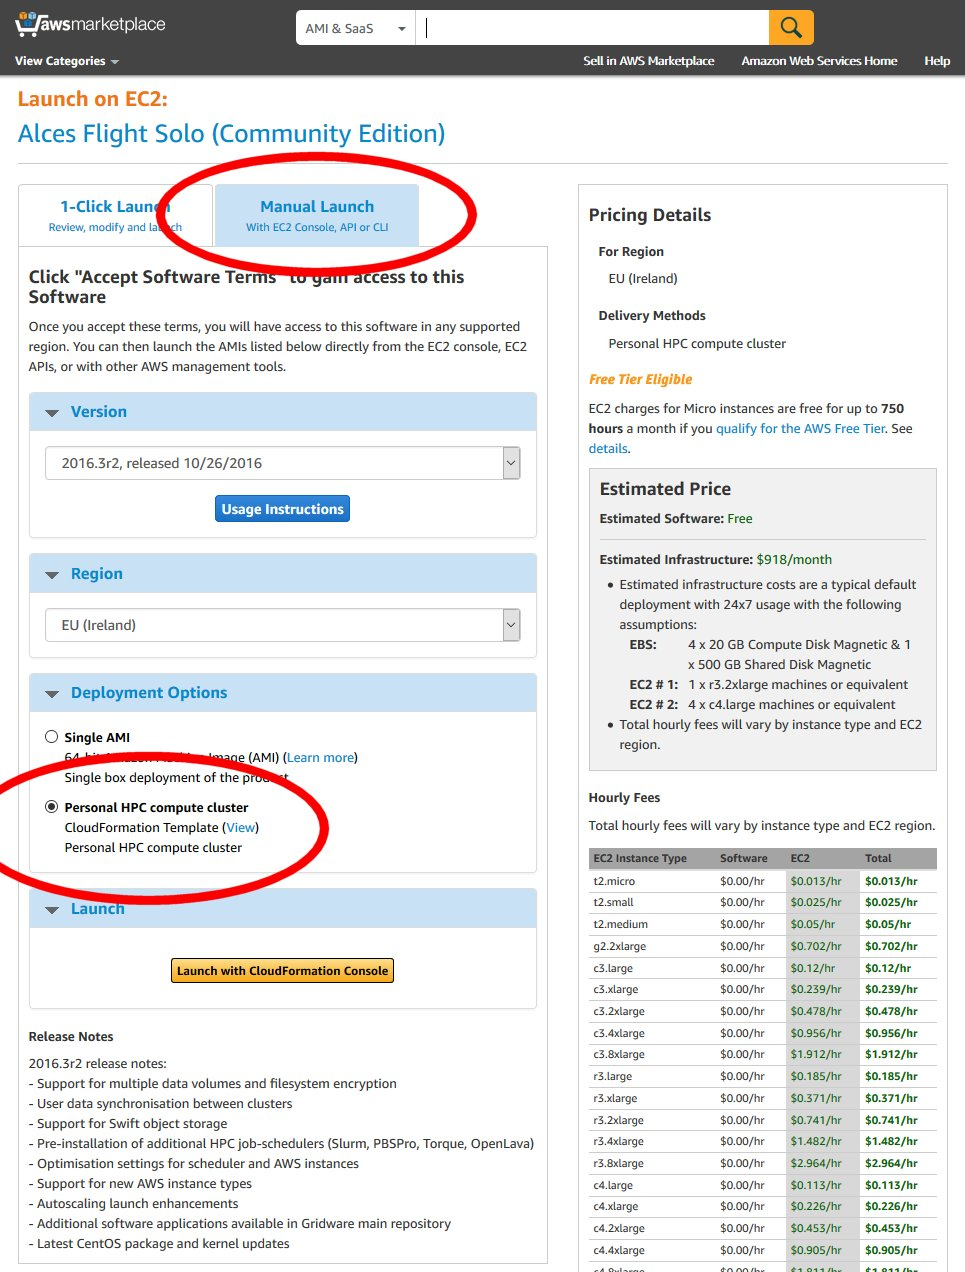
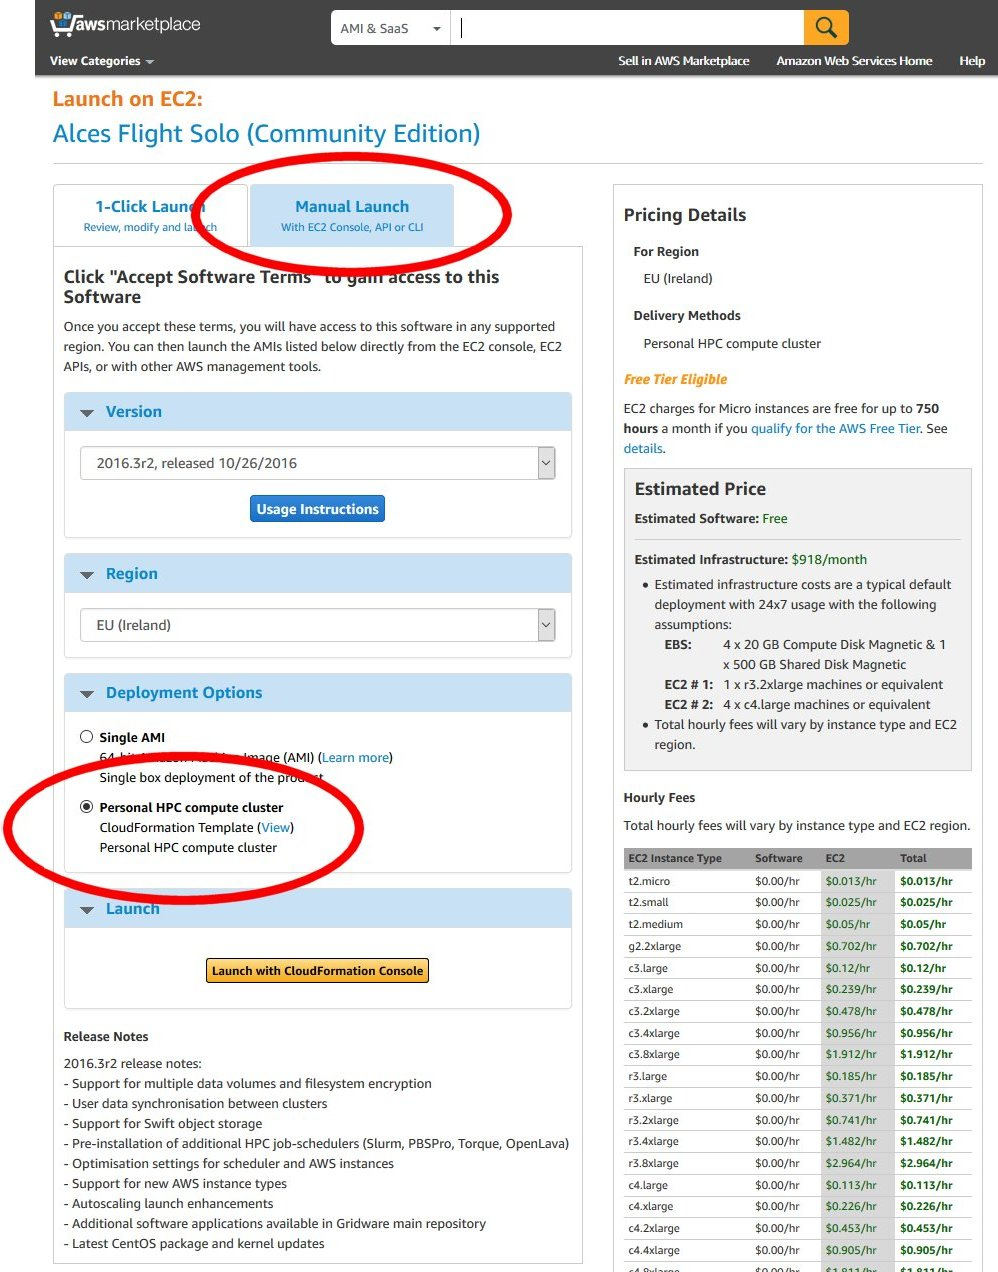
Added NAMD tutorial; fixed JPG highlight

diff --git a/docs/source/getting-started/environment-usage/namd_on_flight.rst b/docs/source/getting-started/environment-usage/namd_on_flight.rst
@@ -1,0 +1,96 @@
+.. _using-namd-with-alces-flight-compute:
+
+====================================
+Using NAMD with Alces Flight Compute
+====================================
+
+NAMD is a parallel molecular dynamics code designed for high-performance simulation of large biomolecular systems [1]_. The following page details how to install the NAMD application to your Alces Flight Compute environment, as well as how to get started using the NAMD application.
+
+Prerequisites
+-------------
+
+-  Alces Flight Compute environment deployed [2]_
+-  A VNC graphical desktop client
+
+Installation
+------------
+
+From your Alces Flight Compute environment, you can begin by installing the NAMD Gridware package. Use the command below to install NAMD:
+
+.. code:: bash
+
+    alces gridware install apps/namd --variant all --yes
+
+Using NAMD
+----------
+
+Download and unpack the following tutorial files to your home directory: 
+
+  -   https://s3-eu-west-1.amazonaws.com/alces-public/namd-tutorial-files.tgz
+
+The tutorial files contain the appropriate files to get started with NAMD - examining the minimisation and equilibration of ubiquitin protein in a water sphere placed in vacuum. 
+
+The tutorial files can be downloaded and unpacked to your cluster using the following commands from the login node: 
+
+.. code:: bash
+
+    wget https://s3-eu-west-1.amazonaws.com/alces-public/namd-tutorial-files.tgz
+    tar -zxvf namd-tutorial-files.tgz
+    cd namd-tutorial-files/1-2-sphere
+
+Next, start a GNOME desktop session and connect to it to begin using NAMD/VMD [3]_. This can be done from the login node with the following command:
+
+.. code:: bash
+
+    alces session start gnome
+
+Once you are connected to your graphical desktp session, open the Terminal application and load the following modules [4]_:
+
+.. code:: bash
+
+    module load apps/namd_mpi
+
+Next, navigate to the previously unpacked tutorials directory then navigate to the ``1-2-sphere`` directory. Open the ``ubq_ws_eq.conf`` configuration file for editing in your favourite text editor, then check that the ``structure`` and ``coordinates`` paths are correct. 
+
+Next, run the simulation - this should take about 20 minutes to complete. You can either run this through an interactive scheduler session on a dedicated compute node or create a job script and run through the cluster scheduler. 
+
+To run the NAMD simulation in an interactive session using the SGE scheduler - run the following commands: 
+
+.. code:: bash
+
+    qrsh -pe smp-verbose 2 -l h_vmem=1G
+    cd namd-tutorial-files/1-2-sphere
+    module load apps/namd_mpi
+    mpirun -np 2 namd2 ubq_ws_eq.conf > ubq_ws_eq.log &
+
+Or to run through the job scheduler, you could use the following example job script for the SGE scheduler: 
+
+.. code:: bash
+
+    #!/bin/bash -l
+    #$ -pe mpislots-verbose 4
+    #$ -l h_vmem=1G
+    #$ -N NAMD -o $HOME/namd.$JOB_ID.out
+    module load apps/namd_mpi
+    cd $HOME/namd-tutorial-files/1-2-sphere
+    mpirun namd2 ubq_ws_eq.conf
+
+Once the task has finished, your output file will contain lots of output data. The end of your output file should contain the following if the job has successfully completed: 
+
+.. code:: bash
+
+    WRITING EXTENDED SYSTEM TO OUTPUT FILE AT STEP 2600
+    WRITING COORDINATES TO OUTPUT FILE AT STEP 2600
+    CLOSING COORDINATE DCD FILE
+    The last position output (seq=-2) takes 0.046 seconds, 309.516 MB of memory in use
+    WRITING VELOCITIES TO OUTPUT FILE AT STEP 2600
+    The last velocity output (seq=-2) takes 0.015 seconds, 309.516 MB of memory in use
+    ====================================================
+    
+    WallClock: 269.963684  CPUTime: 269.963684  Memory: 309.515625 MB
+    End of program
+
+.. [1] http://www.ks.uiuc.edu/Research/namd/
+.. [2] :ref:`Launch an Alces Flight Compute environment <launching_on_aws>`
+.. [3] :ref:`Starting desktop sessions <graphicaldesktop>`
+.. [4] `Loading environment modules <http://docs.alces-flight.com/en/latest/apps/apps.html#modules-environment-management>`_

diff --git a/docs/source/index.rst b/docs/source/index.rst
@@ -94,3 +94,5 @@ We recommend that users wishing to use Flight Appliances have basic Linux skills
 
    getting-started/environment-usage/gridware-features/*
    getting-started/environment-usage/using-openfoam-with-alces-flight-compute.rst
+   getting-started/environment-usage/namd_on_flight.rst
+
